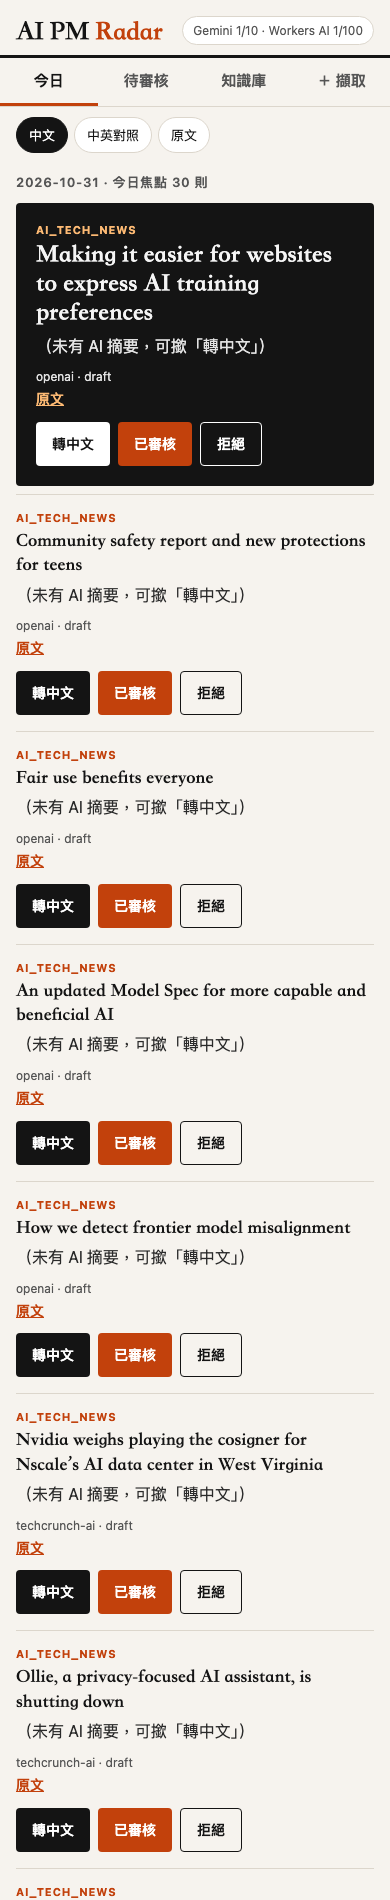
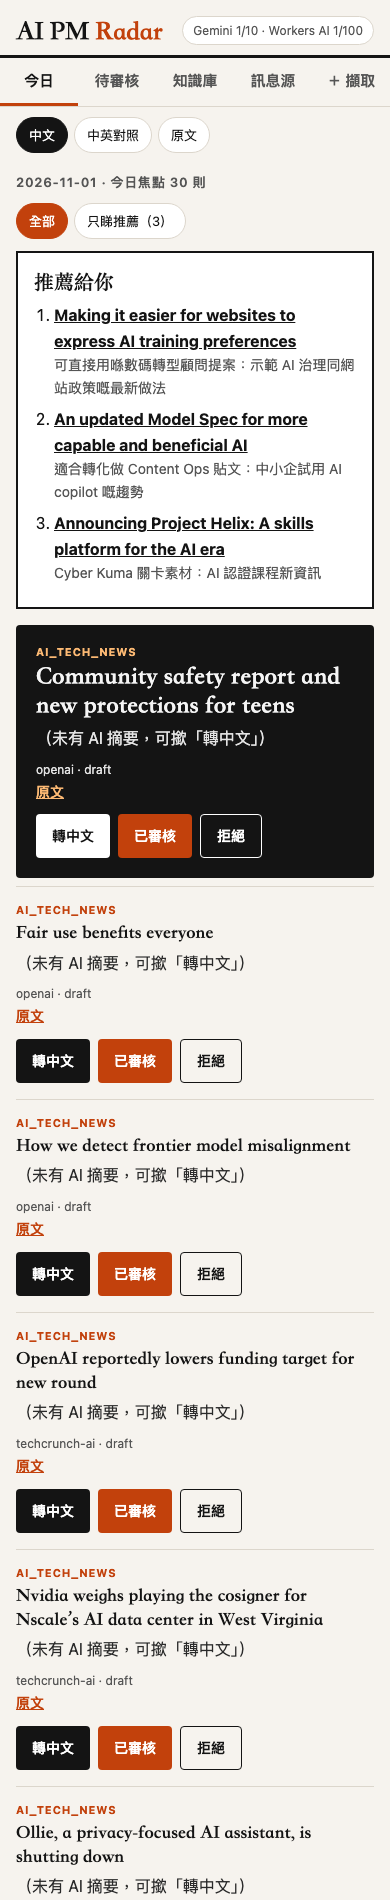
cloud: 訊息源 (user RSS/X sources), X ingest API (bearer INGEST_TOKEN), personalized 推薦 (reco_score/reason), analyze pending

diff --git a/cloud/public/app.js b/cloud/public/app.js
@@ -4,7 +4,7 @@ const esc = (s) => dec(s).replace(/[&<>"']/g, (c) => ({ "&": "&amp;", "<": "&lt;
 const api = async (p, o) => { const r = await fetch(p, { credentials: "same-origin", ...o }); const j = await r.json().catch(() => ({})); if (!r.ok) throw Object.assign(new Error(j.error || r.status), { j }); return j; };
 const MSG = { ai_daily_cap_reached: "今日 AI 額度已用完（08:00 重設）", insufficient_content: "內容太短，請打開原文貼上正文（用「＋擷取」）",
   ai_bad_output: "AI 回覆格式有誤，請稍後再試", workers_ai_error: "後備 AI 暫時出錯，請稍後再試", workers_ai_unbound: "後備 AI 未設定",
-  gemini_key_missing: "Gemini key 未設定", unauthorized: "登入已過期，請重新整理頁面", not_found: "找不到此文章" };
+  gemini_key_missing: "Gemini key 未設定", unauthorized: "登入已過期，請重新整理頁面", not_found: "找不到", duplicate_source: "已經有呢個訊息源", bad_source: "格式唔啱" };
 const msgOf = (e) => e.j?.hint || MSG[e.message] || (/^gemini_http_/.test(e.message) ? "Gemini 暫時出錯，請稍後再試" : "處理失敗，請稍後再試") + "";
 let lang = localStorage.getItem("radar-lang") || "zh";
 const PV = { gemini: "Gemini", "workers-ai": "Workers AI" };
@@ -16,7 +16,7 @@ function body(it) {
   return `<h3>${esc(zhT)}</h3><p>${esc(zhS)}</p>${ul(it.key_points)}`;
 }
 const size = (it, i) => i === 0 ? "feat" : (i < 3 || (it.score ?? 0) >= 8) ? "wide" : "";
-const card = (it, i = 9) => `<article class="card ${size(it, i)}">${it.category || it.source ? `<div class="kicker">${esc(it.category || it.source)}</div>` : ""}${body(it)}<div class="meta">${esc(it.source || "")} · ${esc(it.status)}${it.score != null ? " · 評分 " + esc(it.score) : ""}${it.ai_provider ? " · " + esc(PV[it.ai_provider] || it.ai_provider) : ""}</div>
+const card = (it, i = 9) => `<article id="i-${it.id}" class="card ${size(it, i)}">${it.category || it.source ? `<div class="kicker">${esc(it.category || it.source)}</div>` : ""}${body(it)}${it.reco_reason ? `<p class="why"><b>推薦理由</b>${esc(it.reco_reason)}</p>` : ""}<div class="meta">${it.reco_score != null ? `<span class="reco">推薦 ${esc(it.reco_score)}</span> · ` : ""}${esc(it.source || "")} · ${esc(it.status)}${it.score != null ? " · 評分 " + esc(it.score) : ""}${it.ai_provider ? " · " + esc(PV[it.ai_provider] || it.ai_provider) : ""}</div>
 ${it.url ? `<a href="${esc(it.url)}" target="_blank" rel="noopener noreferrer">原文</a>` : ""}
 <div class="acts">${!it.title_zh ? `<button class="sec" data-act="translate" data-id="${it.id}">轉中文</button>` : ""}${it.status === "draft" ? `<button data-act="review" data-id="${it.id}">已審核</button>` : ""}${it.status === "reviewed" ? `<button data-act="approve" data-id="${it.id}">批准重用</button>` : ""}${["draft", "reviewed"].includes(it.status) ? `<button class="rej" data-act="reject" data-id="${it.id}">拒絕</button>` : ""}</div></article>`;
 const list = (items) => items.length ? `<div class="grid">${items.map(card).join("")}</div>` : "<p class='meta'>暫時冇內容</p>";
@@ -24,9 +24,31 @@ async function show(tab) {
   document.querySelectorAll("nav button").forEach((b) => b.classList.toggle("on", b.dataset.tab === tab));
   try {
     if (tab === "capture") { view.innerHTML = ""; view.append(document.getElementById("capture-tpl").content.cloneNode(true)); return bindCapture(); }
-    if (tab === "daily") { const d = await api("/api/daily"); view.innerHTML = `<p class="dateline">${esc(d.date || "未有")} · 今日焦點 ${d.items.length} 則</p>` + list(d.items); }
+    if (tab === "sources") { view.innerHTML = ""; view.append(document.getElementById("sources-tpl").content.cloneNode(true)); return bindSources(); }
+    if (tab === "daily") {
+      const d = await api("/api/daily"); const picks = d.items.filter((i) => (i.reco_score ?? 0) >= 7).sort((a, b) => b.reco_score - a.reco_score).slice(0, 5);
+      const only = localStorage.getItem("radar-reco") === "1";
+      view.innerHTML = `<p class="dateline">${esc(d.date || "未有")} · 今日焦點 ${d.items.length} 則</p>
+<div class="filters"><button data-reco="0" class="${only ? "" : "on"}">全部</button><button data-reco="1" class="${only ? "on" : ""}">只睇推薦（${picks.length}）</button></div>
+${picks.length ? `<section class="picks" aria-label="推薦給你"><h2>推薦給你</h2><ol>${picks.map((p) => `<li><a href="#i-${p.id}">${esc(p.title_zh || p.title)}</a><span>${esc(p.reco_reason || "")}</span></li>`).join("")}</ol></section>` : ""}` + list(only ? picks : d.items);
+    }
     else { const d = await api(tab === "draft" ? "/api/library?status=all" : "/api/library?status=approved"); view.innerHTML = list(tab === "draft" ? d.items.filter((i) => ["draft", "reviewed"].includes(i.status)) : d.items); }
   } catch (e) { view.innerHTML = `<p>載入失敗：${esc(e.message)}</p>`; }
+}
+async function bindSources() {
+  const listEl = document.getElementById("src-list"); const msg = document.getElementById("src-msg");
+  const render = async () => { const { sources } = await api("/api/sources");
+    listEl.innerHTML = sources.length ? sources.map((s) => `<div class="src ${s.enabled ? "" : "off"}"><span class="tag">${s.type === "x" ? "X" : "RSS"}</span><div class="grow"><b>${esc(s.label || s.value)}</b><div class="meta">${esc(s.value)}</div></div>
+<button class="sec" data-src="toggle" data-id="${s.id}" data-on="${s.enabled}" aria-pressed="${!!s.enabled}">${s.enabled ? "停用" : "啟用"}</button><button class="rej" data-src="del" data-id="${s.id}">刪除</button></div>`).join("")
+      : "<p class='meta'>未有自訂訊息源。內建：OpenAI、Anthropic、TechCrunch AI、Coursera、Hugging Face、Hacker News。</p>"; };
+  document.getElementById("src-form").addEventListener("submit", async (ev) => { ev.preventDefault(); const f = new FormData(ev.target);
+    try { await api("/api/sources", { method: "POST", headers: { "content-type": "application/json" }, body: JSON.stringify(Object.fromEntries(f)) }); msg.textContent = "已新增"; ev.target.reset(); render(); }
+    catch (e) { msg.textContent = "失敗：" + msgOf(e); } });
+  listEl.addEventListener("click", async (ev) => { const b = ev.target.closest("[data-src]"); if (!b) return;
+    if (b.dataset.src === "del" && !confirm("確定刪除？")) return;
+    try { await api(`/api/sources/${b.dataset.id}`, b.dataset.src === "del" ? { method: "DELETE" } : { method: "PATCH", headers: { "content-type": "application/json" }, body: JSON.stringify({ enabled: b.dataset.on !== "1" }) }); render(); }
+    catch (e) { msg.textContent = "失敗：" + msgOf(e); } });
+  render().catch((e) => { listEl.textContent = "載入失敗：" + msgOf(e); });
 }
 function bindCapture() {
   document.getElementById("cap-form").addEventListener("submit", async (ev) => {
@@ -35,7 +57,8 @@ function bindCapture() {
     catch (e) { msg.textContent = "失敗：" + msgOf(e); }
   });
 }
-view.addEventListener("click", async (ev) => { const b = ev.target.closest("[data-act]"); if (!b) return; b.disabled = true;
+view.addEventListener("click", async (ev) => { const r = ev.target.closest("[data-reco]"); if (r) { localStorage.setItem("radar-reco", r.dataset.reco); return show("daily"); }
+  const b = ev.target.closest("[data-act]"); if (!b) return; b.disabled = true;
   if (b.dataset.act === "translate") b.textContent = "AI 處理中…";
   try { await api(`/api/items/${b.dataset.id}/${b.dataset.act}`, { method: "POST" }); }
   catch (e) { refreshCap(); const n = document.createElement("div"); n.className = "err"; n.textContent = msgOf(e); b.closest(".acts").after(n); b.disabled = false; if (b.dataset.act === "translate") b.textContent = "轉中文"; return; }

diff --git a/cloud/public/app.css b/cloud/public/app.css
@@ -22,3 +22,13 @@ input,textarea{width:100%;margin-top:6px;padding:12px;border-radius:4px;border:1
 @media (min-width:720px){.grid{grid-template-columns:repeat(2,minmax(0,1fr));column-gap:28px}.card.feat{grid-column:1/-1;padding:32px}}
 @media (min-width:1024px){.grid{grid-template-columns:repeat(4,minmax(0,1fr));column-gap:28px}.card.feat{grid-column:span 3;grid-row:span 2;margin-bottom:0}.card.wide{grid-column:span 2}.card.feat+.card,.card.feat+.card+.card{grid-column:span 1}}
 @media (prefers-reduced-motion:reduce){*{transition:none!important}}
+
+nav button{font-size:clamp(13px,3.8vw,15px);padding:12px 2px}
+.filters{display:flex;gap:6px;margin:0 0 12px}.filters button{min-height:36px;padding:6px 12px;border-radius:999px;border:1px solid var(--line);background:var(--card);color:var(--ink);font:13px var(--sans);cursor:pointer}.filters button.on{background:var(--acc);border-color:var(--acc);color:#fff}
+.picks{background:var(--card);border:2px solid var(--ink);padding:14px 16px;margin-bottom:16px}.picks h2{font:900 20px var(--serif);margin:0 0 8px}.picks ol{margin:0;padding-left:20px}.picks li{margin-bottom:8px;overflow-wrap:anywhere}.picks a{color:var(--ink);font-weight:700}.picks li span{display:block;font-size:14px;color:var(--mut)}
+.why{background:#fff7ed;border-left:3px solid var(--acc);padding:6px 10px;font-size:14px;color:#3b2a1a!important;overflow-wrap:anywhere}.why b{display:block;font-size:12px;color:var(--acc)}.card.feat .why{background:#2a2a2a;color:#f5f5f5!important}.card.feat .why b{color:#fdba74}
+.reco{color:var(--acc);font-weight:700}.card.feat .reco{color:#fdba74}
+.panel{max-width:720px;background:var(--card);border:1px solid var(--line);padding:16px;border-radius:4px;margin-bottom:16px}.row{display:flex;gap:10px;flex-wrap:wrap}.grow{flex:1;min-width:0}
+select{margin-top:6px;padding:12px;border-radius:4px;border:1px solid #9a9184;background:#fff;font:16px var(--sans);color:var(--ink)}
+.src{display:flex;align-items:center;gap:8px;padding:12px 0;border-top:1px solid var(--line);max-width:720px;overflow-wrap:anywhere}.src.off{opacity:.6}.src .tag{font:700 11px var(--sans);background:var(--ink);color:#fff;padding:3px 6px;border-radius:3px}
+.src button{min-height:40px;padding:8px 12px;border-radius:4px;font:600 13px var(--sans);cursor:pointer}.src .sec{background:var(--ink);color:#fff;border:0}.src .rej{background:transparent;border:1px solid var(--ink);color:var(--ink)}

diff --git a/cloud/public/index.html b/cloud/public/index.html
@@ -3,11 +3,14 @@
 <meta name="theme-color" content="#f6f3ee"><link rel="manifest" href="/manifest.webmanifest">
 <title>AI PM Radar</title><link rel="stylesheet" href="/app.css"></head><body>
 <header><h1>AI PM <span>Radar</span></h1><span id="cap" aria-label="今日 AI 用量"></span></header>
-<nav><button data-tab="daily" class="on">今日</button><button data-tab="draft">待審核</button><button data-tab="approved">知識庫</button><button data-tab="capture">＋ 擷取</button></nav>
+<nav><button data-tab="daily" class="on">今日</button><button data-tab="draft">待審核</button><button data-tab="approved">知識庫</button><button data-tab="sources">訊息源</button><button data-tab="capture">＋ 擷取</button></nav>
 <div id="lang"><button data-lang="zh">中文</button><button data-lang="both">中英對照</button><button data-lang="orig">原文</button></div>
 <main id="view"></main>
 <template id="capture-tpl"><form id="cap-form">
 <label>網址<input name="url" type="url" placeholder="https://…"></label>
 <label>正文 / 字幕 / 貼文<textarea name="text" rows="8" placeholder="影片或社交貼文請直接貼字幕或內容"></textarea></label>
 <button type="submit">AI 整理成知識文章</button><p id="cap-msg" role="status"></p></form></template>
+<template id="sources-tpl"><form id="src-form" class="panel"><div class="row"><label>類型<select name="type"><option value="rss">RSS</option><option value="x">X 帳號</option></select></label>
+<label class="grow">網址 / @handle<input name="value" required placeholder="https://… 或 @handle"></label></div>
+<label>名稱（可選）<input name="label" maxlength="60"></label><button type="submit">新增訊息源</button><p id="src-msg" role="status"></p></form><div id="src-list"></div></template>
 <script src="/app.js" type="module"></script></body></html>

diff --git a/docs/radar-sources-x-ingest.md b/docs/radar-sources-x-ingest.md
@@ -1,0 +1,24 @@
+# 訊息源 + X 匯入 + 推薦（Radar cloud）
+
+## 部署前 Matt 要做
+1. 套用 D1 migration：`cd cloud && npx wrangler d1 migrations apply ai-pm-radar --remote`（新增 `sources` 表、items 加 external_id/metrics/reco_score/reco_reason）。
+2. 設定 Jun 用嘅 bearer token（至少 32 字元，唔好貼喺對話入面）：
+   `openssl rand -hex 32 | tee /dev/tty | npx wrangler secret put INGEST_TOKEN`
+   將同一串 token 經安全途徑（例如密碼管理器）交畀 Jun。
+3. Access 要讓 Jun 嘅自動化穿過（Access 保護成個 hostname，冇設定嘅話 bearer 請求會被擋喺 Access 登入頁）。建議用 **Service Token**（雙重保護），唔建議 Bypass：
+   - Zero Trust →「存取」→「服務驗證」（Service Auth）→「服務權杖」→「建立服務權杖」，名：`jun-radar-ingest`，期限 1 年。複製 Client ID / Client Secret（只顯示一次）。
+   - 「存取」→「應用程式」→ 新增「自行託管」app：網域 `radar-cloud.lamlab.cc`，路徑 `api/ingest`；再加一個網域 `radar-cloud.lamlab.cc` 路徑 `api/sources`（只 GET 由 Worker 限制）。
+   - 原則：動作揀「Service Auth」，包含 →「服務權杖」= `jun-radar-ingest`。**唔好**加 Everyone。
+   - 注意：`/api/sources` 路徑 app 會比主 app 更具體，所以你喺瀏覽器管理訊息源都會用呢個 app。解決：喺同一個 app 再加一條「允許」原則，包含 Emails = lamms280@gmail.com。
+   - Jun 每次請求帶：`CF-Access-Client-Id`、`CF-Access-Client-Secret`、`Authorization: Bearer <INGEST_TOKEN>`。
+
+## API
+- `GET /api/sources?type=x`（bearer 或 owner）→ `{sources:[{type,value:"@handle",label,enabled}]}`
+- `POST /api/ingest/x`（bearer）body `{posts:[{handle,post_id,text,url,created_at,metrics}]}`，每批 ≤200，按 post_id 去重 → `{inserted,duplicate,rejected}`。
+  項目存為今日 daily，source=`x:@handle`，category=`X_POST`；AI 分析喺下次 08:00 排程（或撳 `POST /api/analyze`，owner）按額度做。
+- Owner：`POST /api/sources {type:rss|x,value,label}`、`PATCH /api/sources/:id {enabled,label}`、`DELETE /api/sources/:id`。
+- 每日排程會額外抓已啟用嘅自訂 RSS（最多 20 個，每個 5 篇）。
+
+## 推薦
+AI 整理時同一次呼叫多出 `reco_score`（0–10）同 `reco_reason`（繁中）——唔會多用 AI 次數。
+「今日」頁頂顯示「推薦給你」（reco ≥7，最多 5 篇）同「只睇推薦」篩選。
